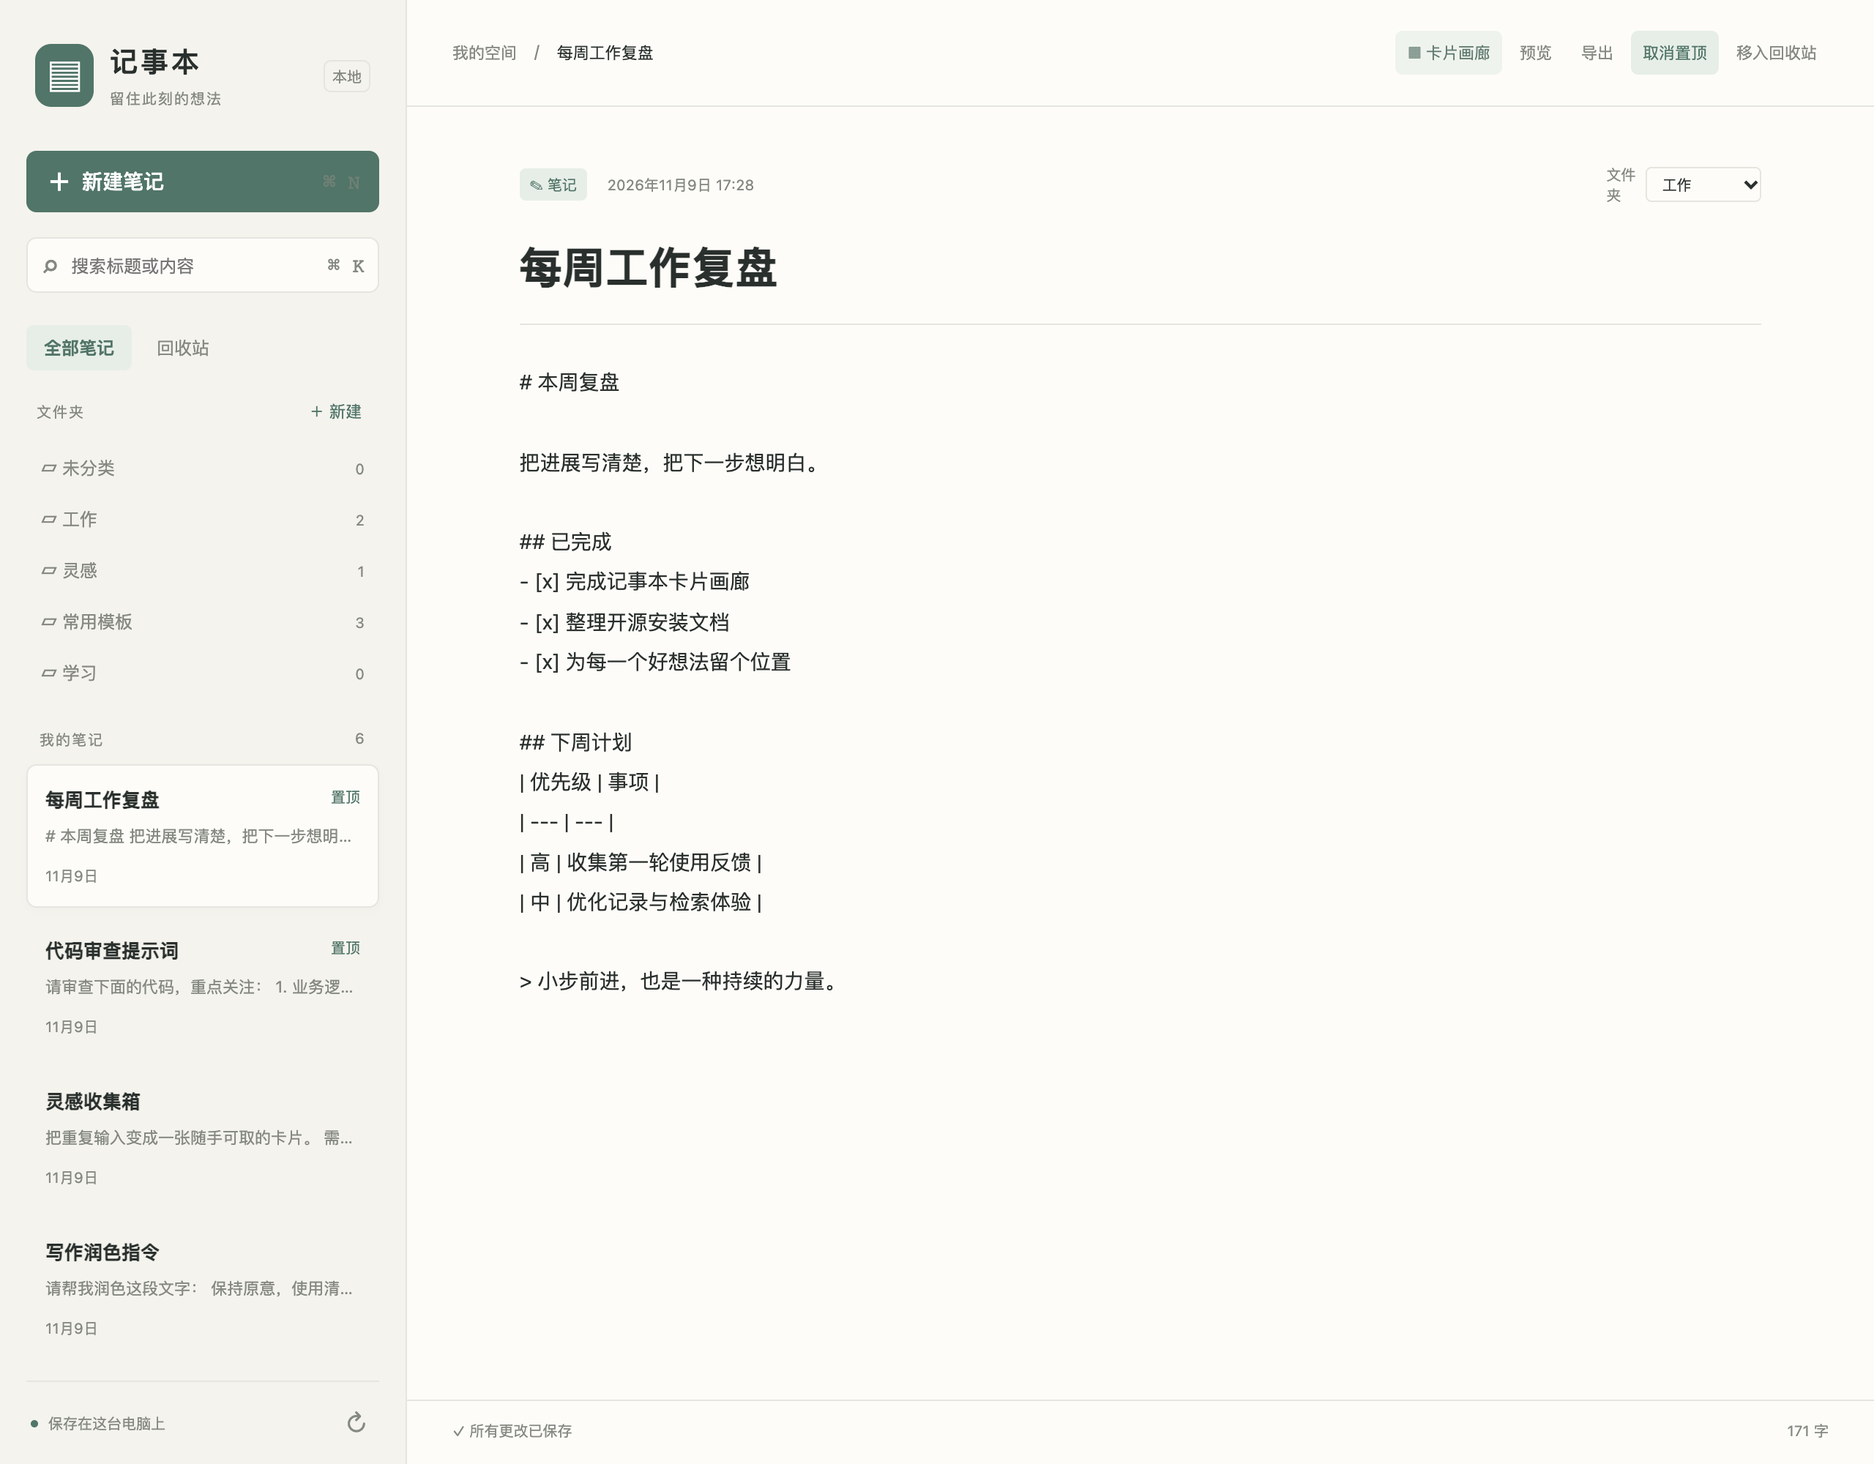
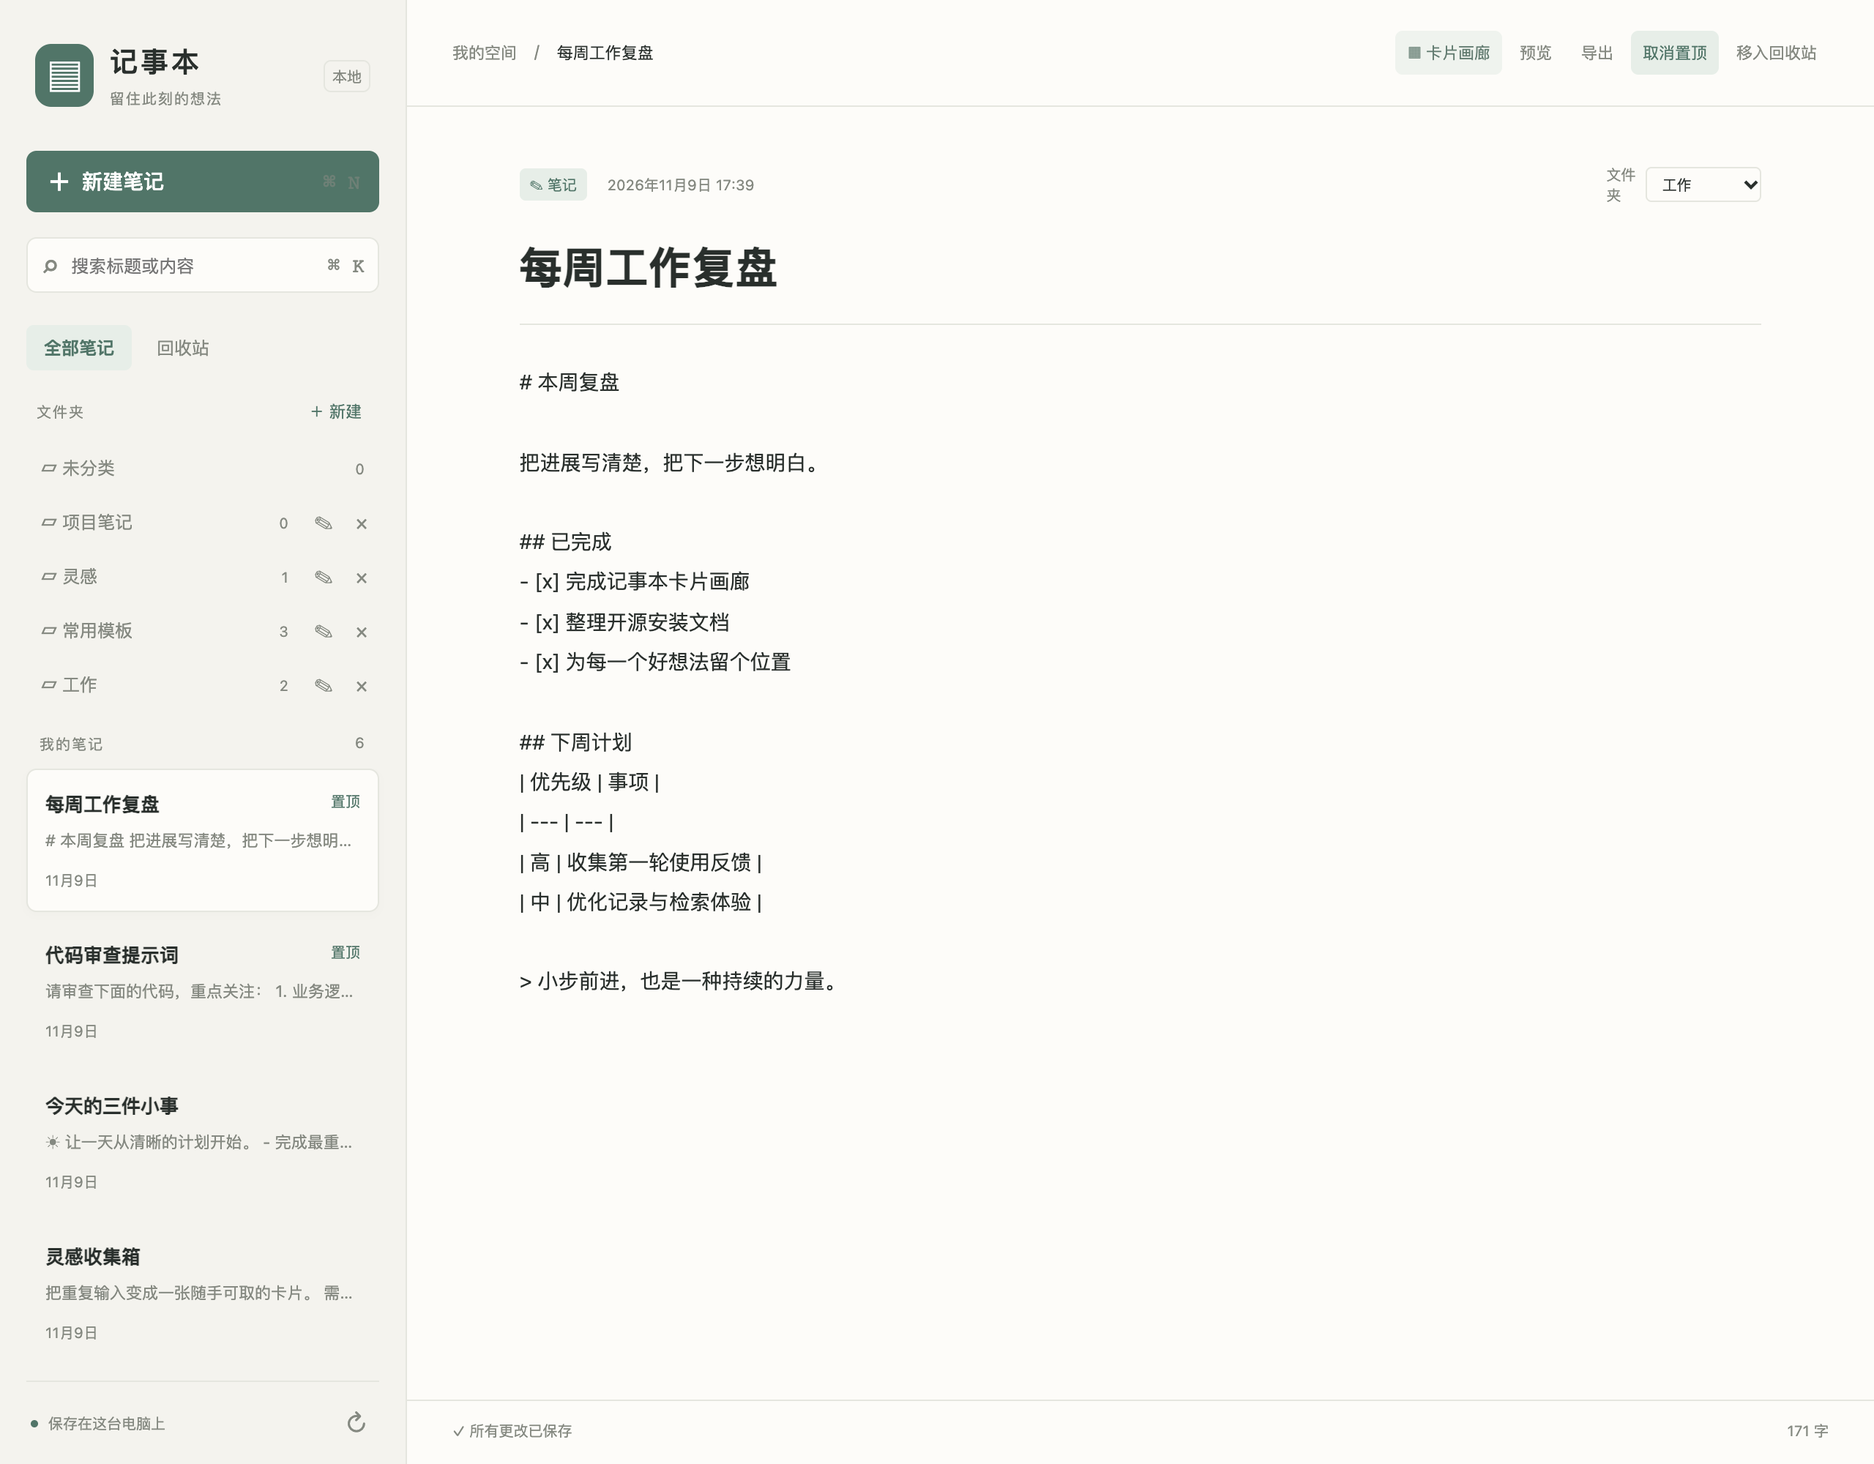
Add folder rename and guarded deletion with nonempty confirmation

diff --git a/web/style.css b/web/style.css
@@ -7,3 +7,4 @@
 @media(max-width:470px){.notebook{grid-template-columns:145px minmax(0,1fr)}.sidebar{padding:17px 8px 0}.brand{margin:0 0 20px;gap:7px}.brand small{display:none}.brand strong{font-size:16px}.brand-icon{width:28px;height:31px;font-size:23px}.filters{gap:1px}.filters button{padding:7px;font-size:10px}.sidebar-footer{font-size:8px;gap:4px}.search{padding:7px 5px}.search input{font-size:10px}.note-card{padding:12px 8px}.editor{padding:24px 15px}.title-input{font-size:21px}.toolbar{padding:0 10px}.empty h1{font-size:17px;letter-spacing:0}.empty-art{transform:scale(.8)}.eyebrow{display:none}.editor-footer{padding:12px 10px;font-size:9px}.breadcrumb span:last-child{max-width:90px}.toolbar-actions{flex-wrap:wrap}.error-banner{margin:10px;padding:9px}.error-banner div{flex-wrap:wrap}}
 .gallery{flex:1;overflow:auto;padding:36px clamp(20px,4vw,56px) 40px}.gallery-heading{display:flex;align-items:center;justify-content:space-between;gap:18px;margin-bottom:29px}.gallery-heading .eyebrow{margin:0 0 12px}.gallery-heading h1{font-size:26px;font-weight:550;letter-spacing:1px;margin:0 0 11px}.gallery-heading h1 span{font-size:12px;font-weight:400;letter-spacing:0;background:var(--green-soft);color:var(--green);padding:3px 8px;border-radius:20px;margin-left:12px;vertical-align:middle}.gallery-heading p:last-child{font-size:12px;color:var(--muted);margin:0;line-height:1.7}.gallery-hint{font-size:10px;color:var(--muted);white-space:nowrap}.gallery-grid{display:grid;grid-template-columns:repeat(auto-fill,minmax(min(100%,235px),1fr));gap:18px;align-items:start}.gallery-card{background:var(--paper);border:1px solid var(--line);border-radius:12px;overflow:hidden;transition:border-color .15s,box-shadow .15s,transform .15s;min-width:0}.gallery-card:hover{border-color:var(--green);box-shadow:0 6px 22px #00000009;transform:translateY(-2px)}.gallery-copy{display:flex;flex-direction:column;width:100%;height:240px;text-align:left;padding:21px 21px 15px;position:relative}.gallery-copy:hover{background:var(--green-soft)}.gallery-copy:focus-visible{outline-offset:-4px;border-radius:11px}.gallery-card-label{font-size:9px;letter-spacing:1px;color:var(--green);margin-bottom:17px}.gallery-copy h2{font-size:16px;font-weight:550;line-height:1.6;margin:0 0 11px;display:-webkit-box;-webkit-line-clamp:2;-webkit-box-orient:vertical;overflow:hidden;overflow-wrap:anywhere;flex-shrink:0}.gallery-copy p{font-size:12px;line-height:1.85;white-space:pre-wrap;overflow-wrap:anywhere;color:var(--muted);margin:0;display:-webkit-box;-webkit-line-clamp:4;-webkit-box-orient:vertical;overflow:hidden}.gallery-copy-hint{margin-top:auto;padding-top:16px;font-size:10px;color:var(--green)}.gallery-card footer{display:flex;align-items:center;justify-content:space-between;border-top:1px solid var(--line);padding:9px 15px 9px 21px;font-size:10px;color:var(--muted)}.gallery-edit{font-size:11px;padding:5px 7px;border-radius:5px;color:var(--green)}.gallery-empty{display:flex;flex-direction:column;align-items:center;justify-content:center;min-height:310px;text-align:center;color:var(--muted);border:1px dashed var(--line);border-radius:12px;padding:25px}.gallery-empty>span{font-size:42px;color:var(--green);opacity:.6}.gallery-empty h2{font-size:17px;font-weight:500;color:var(--ink);margin:19px 0 10px}.gallery-empty p{font-size:12px;line-height:1.8;margin:0 0 23px}.gallery-empty button{font-size:12px;padding:10px 17px}.copy-toast{position:fixed;bottom:58px;left:50%;transform:translateX(-50%);z-index:10;max-width:min(90vw,500px);padding:12px 20px;border-radius:9px;background:var(--ink);color:var(--paper);box-shadow:0 6px 25px #0003;font-size:12px;line-height:1.7;overflow-wrap:anywhere;pointer-events:none}.copy-toast.failed{background:var(--error);color:white}@media(max-width:740px){.gallery{padding:28px 20px}.gallery-hint{display:none}.gallery-heading h1{font-size:23px}.gallery-grid{gap:13px}.gallery-copy{height:220px;padding:18px 17px 13px}.gallery-card footer{padding-left:17px}}@media(max-width:470px){.gallery{padding:23px 12px}.gallery-heading h1{font-size:20px}.gallery-heading h1 span{margin-left:6px}.gallery-copy{padding:15px 12px;height:215px}.gallery-card footer{padding-left:12px}.gallery-empty{padding:20px 12px}.gallery-empty h2{font-size:14px}.toolbar-actions{flex-shrink:1}}
 .folder-section{margin-bottom:20px}.folder-heading{display:flex;align-items:center;justify-content:space-between;padding:0 7px 7px;font-size:10px;letter-spacing:1px;color:var(--muted)}.folder-heading button{font-size:11px;letter-spacing:0;border-radius:4px;padding:5px;color:var(--green)}.folder-list{max-height:180px;overflow-y:auto}.folder-item{display:flex;align-items:center;justify-content:space-between;gap:10px;width:100%;text-align:left;padding:8px 10px;border-radius:5px;margin:2px 0;font-size:12px;color:var(--muted)}.folder-item>span:first-child{overflow:hidden;text-overflow:ellipsis;white-space:nowrap}.folder-count{font-size:10px;flex-shrink:0}.folder-item.active{background:var(--green-soft);color:var(--green);font-weight:550}.folder-form{padding:8px;border:1px solid var(--line);border-radius:6px;margin:2px 0 8px}.folder-form input{width:100%;min-width:0;border:1px solid var(--line);border-radius:4px;padding:7px;background:var(--paper);font-size:12px}.folder-form>div{display:flex;gap:7px;justify-content:flex-end;margin-top:7px}.folder-form button{font-size:11px;color:var(--green);padding:5px 8px;border-radius:4px}.folder-form p{font-size:11px;color:var(--error);line-height:1.6;margin:6px 0 0}.gallery-heading h1 #gallery-title{font-size:inherit;font-weight:inherit;letter-spacing:inherit;background:none;color:inherit;padding:0;border-radius:0;margin-left:0;vertical-align:baseline;overflow-wrap:anywhere}.gallery-card-actions{display:flex;align-items:center;gap:4px;flex-shrink:0}.gallery-trash{font-size:10px;border-radius:5px;padding:5px 7px;color:var(--muted)}.gallery-trash:hover{color:var(--error);background:#a14c4212}.gallery-folder{display:flex;align-items:center;gap:9px;padding:9px 21px;border-top:1px solid var(--line);font-size:10px;color:var(--muted)}.gallery-folder select,.editor-folder select{font:inherit;border:1px solid var(--line);border-radius:4px;padding:4px 6px;background:var(--paper);color:var(--ink);min-width:0;max-width:100%}.gallery-folder select{flex:1;width:0}.editor-folder{display:flex;align-items:center;gap:6px;margin-left:auto;max-width:45%;min-width:0}.editor-folder select{max-width:160px;width:100%}.note-meta{flex-wrap:wrap}.filters{margin-bottom:15px}@media(max-width:740px){.gallery-folder{padding:8px 17px}.editor-folder{margin-left:0;max-width:100%}}@media(max-width:470px){.folder-item{font-size:10px;padding:7px}.folder-heading{padding-left:5px}.folder-list{max-height:140px}.gallery-folder{padding:8px 12px}.gallery-card footer{flex-wrap:wrap;gap:5px}.editor-folder select{max-width:130px}}
+.folder-row{display:flex;align-items:center;gap:2px}.folder-row .folder-item{flex:1;min-width:0;width:0}.folder-action{flex-shrink:0;color:var(--muted);font-size:14px;padding:5px;border-radius:4px;line-height:20px;min-width:24px}.folder-action:hover{color:var(--green)}.folder-remove:hover{color:var(--error);background:#a14c4212}.folder-delete-dialog{background:var(--paper);color:var(--ink);border:1px solid var(--line);border-radius:12px;padding:26px;max-width:min(440px,calc(100vw - 32px));box-shadow:0 18px 70px #0003}.folder-delete-dialog::backdrop{background:#101c1766}.folder-delete-dialog h2{font-size:20px;font-weight:550;margin:0 0 17px}.folder-delete-dialog p{font-size:13px;line-height:1.9;margin:10px 0;overflow-wrap:anywhere}.folder-delete-dialog #delete-folder-help{color:var(--muted);font-size:12px}.folder-delete-dialog #delete-folder-error{color:var(--error);font-size:12px}.folder-delete-dialog>div{display:flex;justify-content:flex-end;gap:9px;margin-top:23px}.folder-delete-dialog button{font-size:12px;border-radius:6px;border:1px solid var(--line);padding:9px 13px}.folder-delete-dialog #confirm-folder-delete{color:white;background:#a14c42;border-color:#a14c42}.folder-delete-dialog #confirm-folder-delete:hover{background:#8a3d35}

diff --git a/web/index.html b/web/index.html
@@ -41,5 +41,12 @@
   </main>
 </div>
 <div id="copy-toast" class="copy-toast" role="status" aria-live="polite" hidden></div>
+<dialog id="delete-folder-dialog" class="folder-delete-dialog" aria-labelledby="delete-folder-title" aria-describedby="delete-folder-message delete-folder-help">
+  <h2 id="delete-folder-title">删除文件夹？</h2>
+  <p id="delete-folder-message"></p>
+  <p id="delete-folder-help">其中的笔记会移到「未分类」，正文和回收站状态都会保留。</p>
+  <p id="delete-folder-error" role="alert" hidden></p>
+  <div><button id="cancel-folder-delete" autofocus>取消</button><button id="confirm-folder-delete">确认删除文件夹</button></div>
+</dialog>
 <script type="module">/* APP_SCRIPT */</script>
 </body></html>

diff --git a/README.md b/README.md
@@ -10,18 +10,23 @@
 
 *上方三张功能截图使用专门创建的演示笔记。*
 
+**删除非空文件夹前会再次确认，笔记会保留并移至「未分类」。**
+
+![删除非空文件夹前确认笔记数量，可取消操作，确认后保留正文并移至未分类](docs/images/folder-delete-confirm.png)
+
 **固定到侧边栏：**安装后，打开左侧「···」更多菜单，找到「记事本」，点击其右侧的图钉，即可将入口固定到侧边栏。
 
 <img src="docs/images/sidebar-pin.png" alt="在更多菜单中点击记事本右侧的图钉，将记事本固定到侧边栏" width="360">
 
 **安装 agent：请完整阅读本文，并按下方「Agent 安装协议」操作。不要复制他人电脑上的 MCP 配置。**
 
-仓库：[Drok1015/codex-notepad](https://github.com/Drok1015/codex-notepad) · 许可证：[MIT](LICENSE) · 当前版本：`0.4.0`
+仓库：[Drok1015/codex-notepad](https://github.com/Drok1015/codex-notepad) · 许可证：[MIT](LICENSE) · 当前版本：`0.5.0`
 
 ## 功能
 
 - 卡片画廊，点击卡片复制完整笔记正文，保留 Markdown、Unicode 和换行，不含独立标题字段。
 - 左侧支持新建文件夹、按文件夹筛选以及「未分类」。卡片和编辑器中的文件夹下拉框可移动笔记；在文件夹下新建笔记会自动归入该文件夹。
+- 文件夹行右侧提供改名与删除。空文件夹直接删除；含笔记（包括回收站笔记）时先弹出二次确认，确认后将笔记移至「未分类」，保留正文和回收站状态。如果确认期间笔记数量变化，会要求重新确认。默认「未分类」不可改名或删除。
 - 卡片底部可直接「移入回收站」，不会触发复制；从回收站恢复时保留原文件夹。
 - 标题与正文搜索、置顶、新建、编辑、650 毫秒自动保存。
 - Markdown 安全预览、单篇 Markdown 导出。
@@ -83,7 +88,7 @@ npm run install:plugin
 npm run verify:plugin
 ```
 
-4. **核对结果。** 以上命令应全部退出码为 0。安装器将本机状态写入 `.local/install.json`，其 `pluginId` 应为 `local-notepad@codex-notepad`，`version` 应与 `package.json` 一致。`verify:plugin` 必须显示「验证通过」，它会从实际缓存目录的 `.mcp.json` 原样启动服务，核对版本、10 个工具、图标、两个入口及文件夹画廊 UI。
+4. **核对结果。** 以上命令应全部退出码为 0。安装器将本机状态写入 `.local/install.json`，其 `pluginId` 应为 `local-notepad@codex-notepad`，`version` 应与 `package.json` 一致。`verify:plugin` 必须显示「验证通过」，它会从实际缓存目录的 `.mcp.json` 原样启动服务，核对版本、12 个工具、图标、两个入口及文件夹画廊 UI。
 5. **核对界面。** 请用户完全退出并重新打开桌面应用。只有实际观察到「记事本」入口与卡片画廊，才能报告界面验证通过。如果工具不能访问应用界面，明确写「服务验证通过；界面待用户确认」，不要将预览网页或工具列表当成侧边栏显示的证据。不要自动结束用户正在进行的聊天或强制退出应用。
 6. **报告。** 提供安装版本、插件 ID、测试和握手结果、是否验证实际界面，以及下一步。任何阶段失败都先定位该阶段，不能跳过失败继续声称安装完成。
 
@@ -108,7 +113,7 @@ bash scripts/install.sh
 
 重启桌面应用后生效。更新不会删除笔记。更换机器、移除所用 Node 版本，或移动用于插件源的源码目录后，应重新执行安装器。若提示同名 marketplace 已来自旧目录，先检查 `codex plugin marketplace list`；只有确认旧目录属于本插件后，才移除该源并在新目录重新安装。
 
-0.4.0 会自动为旧数据库添加文件夹表和笔记的 `folder_id` 列。原笔记默认归入「未分类」，保留正文、ID、置顶、时间、版本及回收站状态。文件夹为单层分类，当前提供新建与移动，不提供重命名、删除或嵌套。
+0.4.0 及后续版本会自动为旧数据库添加文件夹表和笔记的 `folder_id` 列。原笔记默认归入「未分类」，保留正文、ID、置顶、时间、版本及回收站状态。文件夹为单层分类，支持新建、改名、删除和移动，不支持嵌套。删除分类时会增加相关笔记版本号，防止其他窗口的旧草稿覆盖新的归类；不会修改正文、时间、置顶和回收站状态。
 
 卸载本插件：
 
@@ -161,7 +166,7 @@ NOTEPAD_DATA_DIR=/tmp/codex-notepad-demo npm start
 | 路径 | 职责 |
 | --- | --- |
 | `server/store.mjs` | SQLite 持久化、版本检查和回收站 |
-| `server/index.mjs`、`server/tools.mjs` | MCP 服务、UI 资源和 10 个工具 |
+| `server/index.mjs`、`server/tools.mjs` | MCP 服务、UI 资源和 12 个工具 |
 | `server/clipboard.mjs` | macOS UTF-8 剪贴板写入 |
 | `web/` | 画廊、编辑器和经过 DOMPurify 处理的 Markdown 预览 |
 | `scripts/install.sh`、`scripts/install.mjs` | 依赖、构建、测试、路径探测和安装 |
@@ -169,6 +174,8 @@ NOTEPAD_DATA_DIR=/tmp/codex-notepad-demo npm start
 | `tests/` | 存储、冲突、UI、复制和含中文空格目录的安装测试 |
 
 文件夹工具：`list_folders` 返回文件夹和有效笔记数量，`create_folder` 新建文件夹。`list_notes` 的 `folderId` 省略时查询所有分类、传 `null` 查询未分类、传 UUID 查询指定文件夹；搜索词与分类同时生效。`create_note` 可传 `folderId`，`update_note` 使用最新 `version` 更新 `folderId`（`null` 移回未分类）。移动与删除均执行版本冲突检查。
+
+`rename_folder` 使用 `id`、`expectedName`（当前名称）和新 `name`，重名或并发改名会报错。`list_folders` 额外返回每个文件夹的 `totalNoteCount`，包含回收站笔记。`delete_folder` 首次传 `id`、`expectedName`、`confirmed: false`；若返回 `requiresConfirmation: true`，agent 必须向用户说明数量与笔记会移至未分类，并等待用户明确确认，之后以 `confirmed: true` 和返回的 `noteCount` 作为 `expectedNoteCount` 再调用。数量变化时仍返回确认请求，不能自动重复确认。删除检查、笔记归类和文件夹删除在一个事务中完成。
 
 维护要求：修改安装、工具契约、功能或最低版本时，同步更新本 README、`AGENTS.md` 和测试。版本发布时同步 `package.json`、锁文件、插件 manifest、MCP serverInfo、前端 App 版本与本 README；UI 发生不兼容变更时升级资源 URI。CI 在 macOS 和 Linux 上构建测试；Linux 跳过 macOS 安装集成测试。
 

diff --git a/AGENTS.md b/AGENTS.md
@@ -8,4 +8,5 @@
 - 只运行测试和构建不会安装插件。未经用户安装意图，不运行 `scripts/install.sh` 或 `install:plugin`。
 - 测试使用临时数据库和模拟剪贴板；不要读取个人笔记或覆盖实际剪贴板来测试。
 - 修改文件夹功能时覆盖旧数据库迁移、未分类、文件夹计数、移动的版本冲突与回收站恢复后的分类保留；卡片的编辑、移动和回收站操作不得触发复制。
+- 非空文件夹（含回收站笔记）删除必须先确认数量；取消不得更改数据，数量变化须重新确认。删除分类后笔记移至未分类并保留内容与回收站状态。测试改名冲突、删除确认和编辑器草稿保留。
 - 提交前运行 `npm run build` 和 `npm test`。不提交生成目录、本机路径、笔记、环境变量或凭据。

diff --git a/CHANGELOG.md b/CHANGELOG.md
@@ -1,5 +1,12 @@
 # Changelog
 
+## 0.5.0
+
+- 文件夹支持改名和删除；名称校验与并发名称冲突保护。
+- 非空文件夹删除前二次确认，包含回收站笔记；数量变化时重新确认。
+- 删除分类后笔记移至未分类，保留正文、时间、置顶和回收站状态，并更新版本以保护旧草稿。
+- 增加 `rename_folder` 和 `delete_folder` 工具，合计 12 个工具。
+
 ## 0.4.0
 
 - 左侧文件夹创建与筛选，卡片和编辑器可移动笔记，新笔记继承当前文件夹。
